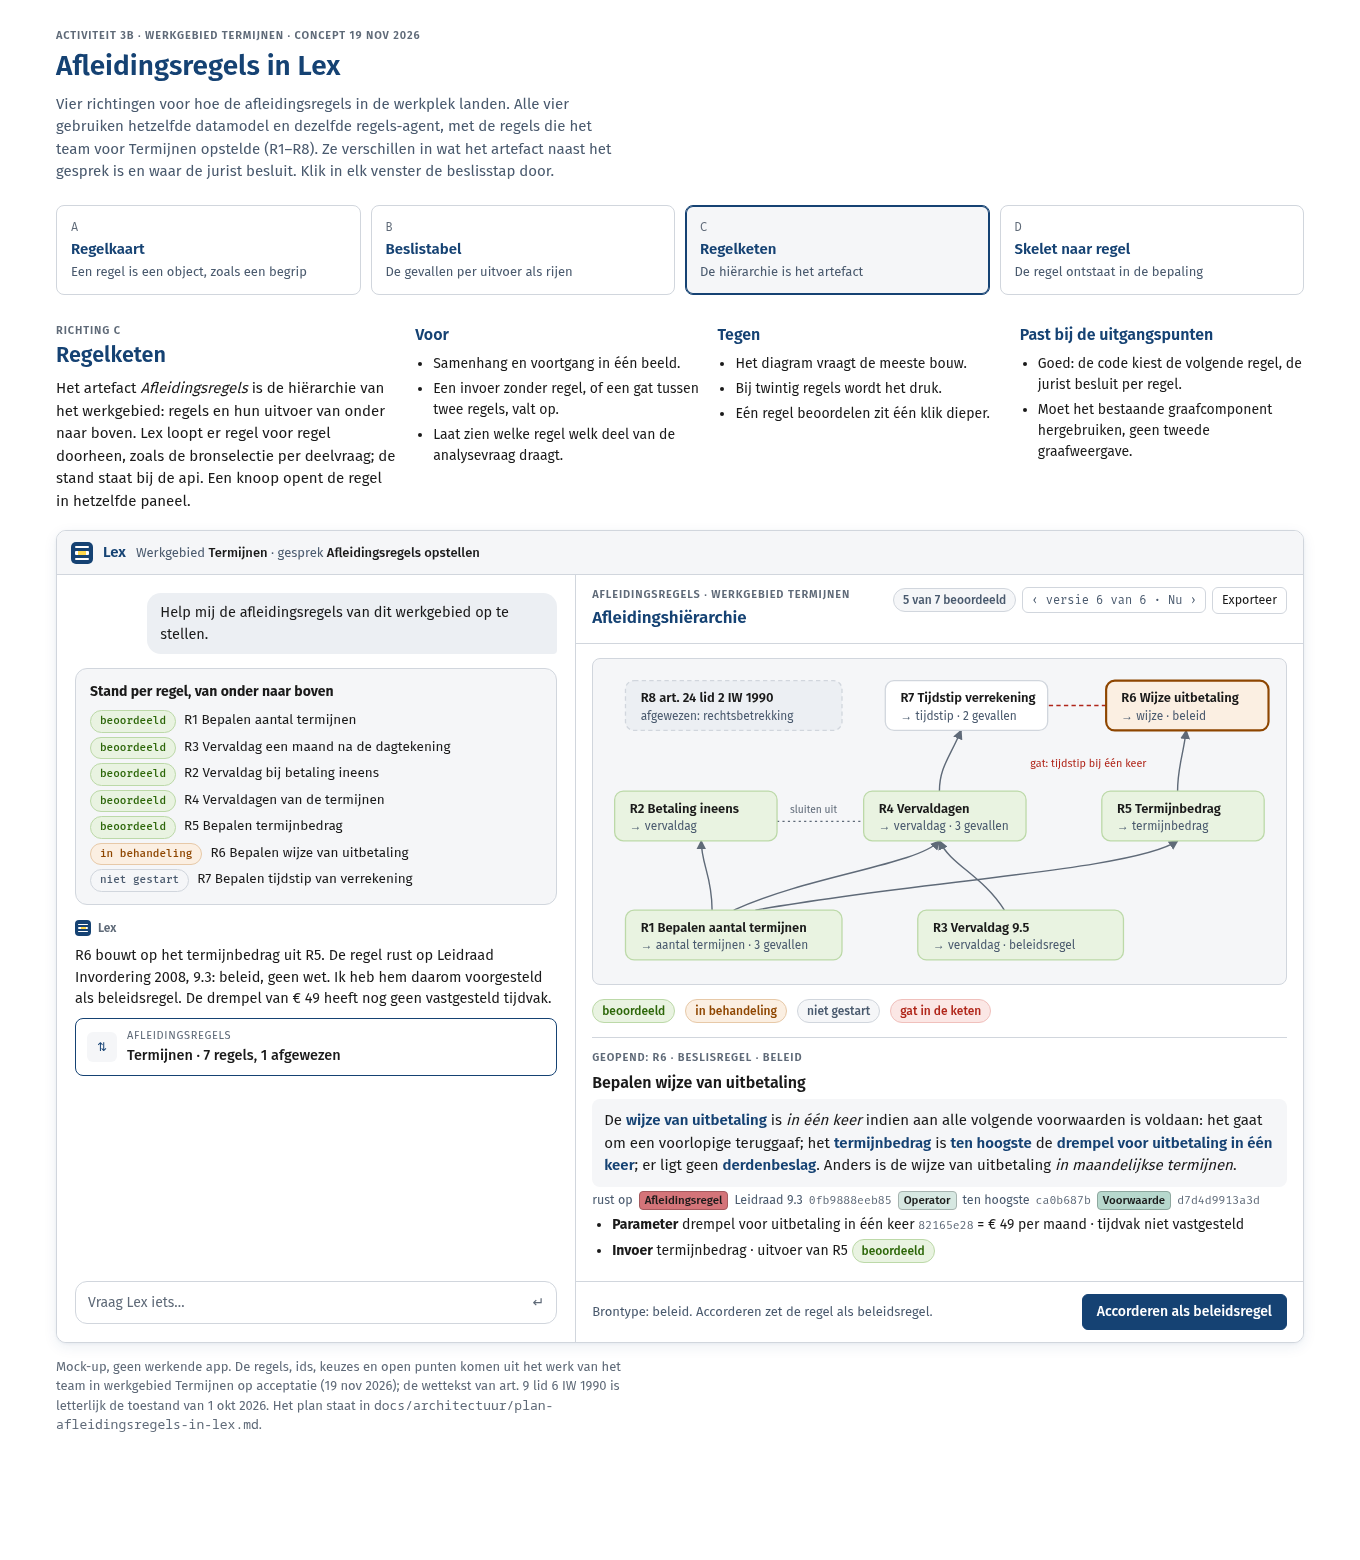
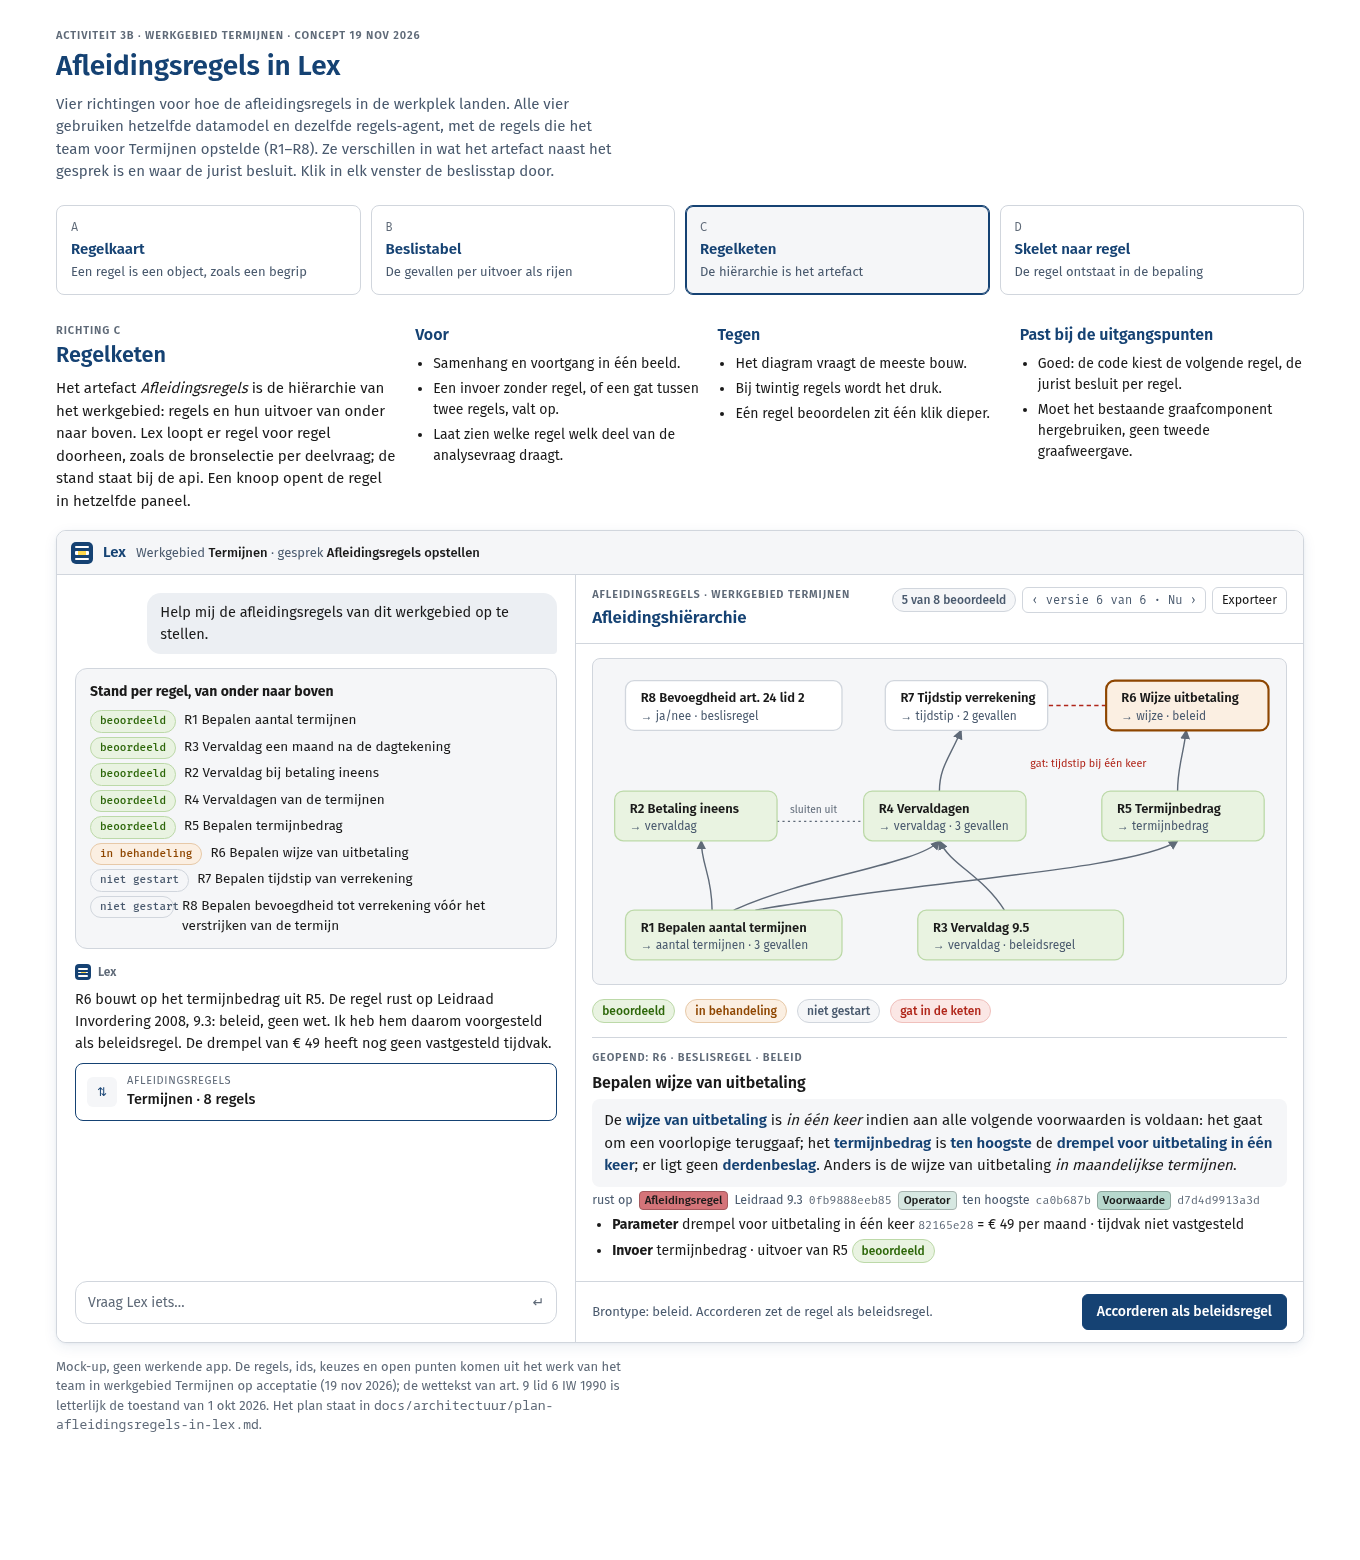
Plan afleidingsregels: grondslag, operatoren en R8 volgens de skill (#1766)
Een regel rust op de Afleidingsregel-markering of op de formulering van het
afgeleide begrip; een beslisregel over een recht op de Rechtsbetrekking.
Operatoren en R8 zijn door de methode beslist; R0 neemt de reference van
#1766 over. De mock-ups van richting A en C volgen.

Changed region(s): [[0.0309, 0.5538, 0.4015, 0.7077], [0.4632, 0.4308, 0.5868, 0.4615]]

diff --git a/docs/architectuur/media/afleidingsregels-richtingen.html b/docs/architectuur/media/afleidingsregels-richtingen.html
@@ -258,7 +258,7 @@ tr.nieuw td { background: color-mix(in srgb, var(--groen-bg) 60%, var(--paper));
               </div></div>
             <div class="veld"><span class="eyebrow">Invoer, op volgorde</span>
               <ol class="lijst"><li>bedrag van de belastingaanslag <span class="id">c25b97af</span> <span id="a-teken">(met teken)</span></li><li>aantal termijnen <span class="id">de1bae54</span> · uitvoer van R1 <i>Bepalen aantal termijnen</i></li></ol></div>
-            <div class="veld"><span class="eyebrow">Bewerking</span><p>gedeeld door <span class="id">uit de operatorcatalogus · geen gemarkeerde formulering</span></p></div>
+            <div class="veld"><span class="eyebrow">Bewerking</span><p><b>gedeeld door</b> <span class="id">operatorbegrip op de formulering "gelijke termijnen" · naam uit de namenlijst</span></p></div>
             <div class="veld"><span class="eyebrow">Gevallen</span>
               <ul class="lijst"><li><b>lid 5</b> · een positief bedrag <span class="jas var">Variabele</span> art. 13 lid 1 AWR <span class="id">dc43143ba8c4</span></li><li><b>lid 6</b> · een uit te betalen bedrag <span class="jas var">Variabele</span> <span class="id">6eec78b767f3</span></li><li><b>lid 7</b> · <span class="gat">skeletgat:</span> de tekst heeft geen formulering voor het bedrag</li></ul></div>
             <div class="open"><span class="s">Open punt · beleid (activiteit 5)</span>De afronding van het termijnbedrag en waar het restant landt.</div>
@@ -353,12 +353,13 @@ tr.nieuw td { background: color-mix(in srgb, var(--groen-bg) 60%, var(--paper));
               <li><span class="s pill ok">beoordeeld</span>R5 Bepalen termijnbedrag</li>
               <li id="c-st6"><span class="s pill concept">in behandeling</span>R6 Bepalen wijze van uitbetaling</li>
               <li id="c-st7"><span class="s pill neutraal">niet gestart</span>R7 Bepalen tijdstip van verrekening</li>
+              <li><span class="s pill neutraal">niet gestart</span>R8 Bepalen bevoegdheid tot verrekening vóór het verstrijken van de termijn</li>
             </ul>
           </div>
           <div class="lex">
             <div class="wie"><span class="merk" aria-hidden="true"><i></i><i class="m"></i><i></i></span>Lex</div>
             <p>R6 bouwt op het termijnbedrag uit R5. De regel rust op Leidraad Invordering 2008, 9.3: beleid, geen wet. Ik heb hem daarom voorgesteld als beleidsregel. De drempel van € 49 heeft nog geen vastgesteld tijdvak.</p>
-            <button class="chip actief" type="button"><span class="ic">⇅</span><span class="t"><span>Afleidingsregels</span><span>Termijnen · 7 regels, 1 afgewezen</span></span></button>
+            <button class="chip actief" type="button"><span class="ic">⇅</span><span class="t"><span>Afleidingsregels</span><span>Termijnen · 8 regels</span></span></button>
           </div>
           <div class="lex" id="c-na" hidden>
             <div class="wie"><span class="merk" aria-hidden="true"><i></i><i class="m"></i><i></i></span>Lex</div>
@@ -370,10 +371,10 @@ tr.nieuw td { background: color-mix(in srgb, var(--groen-bg) 60%, var(--paper));
         <div class="artefact">
           <div class="pkop">
             <div class="titel"><span class="eyebrow">Afleidingsregels · werkgebied Termijnen</span><h3>Afleidingshiërarchie</h3></div>
-            <div class="acties"><span class="pill neutraal" id="c-teller">5 van 7 beoordeeld</span><span class="versie">‹ versie 6 van 6 · Nu ›</span><button class="kopknop" type="button">Exporteer</button></div>
+            <div class="acties"><span class="pill neutraal" id="c-teller">5 van 8 beoordeeld</span><span class="versie">‹ versie 6 van 6 · Nu ›</span><button class="kopknop" type="button">Exporteer</button></div>
           </div>
           <div class="pinhoud">
-            <div class="keten" role="img" aria-label="Afleidingshiërarchie van Termijnen: R1 en R3 onderaan, daarop R2, R4 en R5, daarop R6 en R7.">
+            <div class="keten" role="img" aria-label="Afleidingshiërarchie van Termijnen: R1 en R3 onderaan, daarop R2, R4 en R5, daarop R6, R7 en R8.">
               <svg viewBox="0 0 640 300" xmlns="http://www.w3.org/2000/svg">
                 <defs><marker id="pp" viewBox="0 0 8 8" refX="7" refY="4" markerWidth="7" markerHeight="7" orient="auto"><path d="M0,0 L8,4 L0,8 z" class="pijlpunt"/></marker></defs>
                 <!-- pijlen: van invoer (onder) naar regel (boven) -->
@@ -396,7 +397,7 @@ tr.nieuw td { background: color-mix(in srgb, var(--groen-bg) 60%, var(--paper));
                 <g class="kn ok"><rect x="470" y="122" width="150" height="46" rx="8"/><text class="t1" x="484" y="142">R5 Termijnbedrag</text><text class="t2" x="484" y="158">→ termijnbedrag</text></g>
                 <g class="kn" id="c-k7"><rect x="270" y="20" width="150" height="46" rx="8"/><text class="t1" x="284" y="40">R7 Tijdstip verrekening</text><text class="t2" x="284" y="56">→ tijdstip · 2 gevallen</text></g>
                 <g class="kn bezig" id="c-k6"><rect x="474" y="20" width="150" height="46" rx="8"/><text class="t1" x="488" y="40">R6 Wijze uitbetaling</text><text class="t2" x="488" y="56">→ wijze · beleid</text></g>
-                <g class="kn af"><rect x="30" y="20" width="200" height="46" rx="8"/><text class="t1" x="44" y="40">R8 art. 24 lid 2 IW 1990</text><text class="t2" x="44" y="56">afgewezen: rechtsbetrekking</text></g>
+                <g class="kn"><rect x="30" y="20" width="200" height="46" rx="8"/><text class="t1" x="44" y="40">R8 Bevoegdheid art. 24 lid 2</text><text class="t2" x="44" y="56">→ ja/nee · beslisregel</text></g>
               </svg>
             </div>
             <div class="legenda"><span class="pill ok">beoordeeld</span><span class="pill concept">in behandeling</span><span class="pill neutraal">niet gestart</span><span class="pill rood">gat in de keten</span></div>
@@ -550,7 +551,7 @@ tr.nieuw td { background: color-mix(in srgb, var(--groen-bg) 60%, var(--paper));
     $("c-k7").setAttribute("class", "kn bezig");
     $("c-st6").innerHTML = '<span class="s pill ok">beoordeeld</span>R6 Bepalen wijze van uitbetaling · beleidsregel';
     $("c-st7").innerHTML = '<span class="s pill concept">in behandeling</span>R7 Bepalen tijdstip van verrekening';
-    $("c-teller").textContent = "6 van 7 beoordeeld";
+    $("c-teller").textContent = "6 van 8 beoordeeld";
     $("c-voet").textContent = "R6 geaccordeerd als beleidsregel. De code kiest R7 als volgende.";
     $("c-accorderen").disabled = true; $("c-accorderen").textContent = "Geaccordeerd";
     $("c-na").hidden = false;

diff --git a/docs/architectuur/plan-afleidingsregels-in-lex.md b/docs/architectuur/plan-afleidingsregels-in-lex.md
@@ -76,8 +76,10 @@ Een regel hoort bij één werkgebied, net als een begrip.
   afgeleid uit de dragende markeringen), `aangemaakt_door` en tijden.
 - **De naam is een begrip.** Het regelbegrip ("bepalen van het termijnbedrag") is een gewoon begrip in het
   begrippenkader, op de aanduidende passage van de afleidingsregel. Daarmee geldt *een begrip rust altijd op een
-  annotatie* vanzelf, en een regel zonder gemarkeerde afleidingsregel kan niet bestaan. Zo deed het team het ook
-  (R1 tot en met R7 hebben elk een regelbegrip).
+  annotatie* vanzelf. De grondslag van een regel (skill `references/afleidingsregels.md`, PR #1766): de
+  Afleidingsregel-markering als die er is, en anders de formulering van het afgeleide begrip. Een beslisregel over een
+  recht of bevoegdheid rust op de formulering van dat recht, een Rechtsbetrekking, en hoeft niet als Afleidingsregel
+  gemarkeerd te zijn. Een regel zonder enige grondslag kan niet bestaan (#1760).
 - **De soort**: `rekenregel`, `beslisregel` of `specialisatie` (de methode, plan-afleidingsregels §2.3).
 - **De uitvoer**: precies één begrip. Twee regels met dezelfde uitvoer zijn alleen toegestaan als hun gevallen elkaar
   uitsluiten (R2 en R4, via R1); de api meldt het anders als signaal, niet als fout.
@@ -350,13 +352,14 @@ de annotatie) en verwijst naar de regel. De keuze is aan de gebruiker.
    geval?
 3. **De poort bij accorderen**: beoordeelde begrippen voor uitvoer en invoer verplicht, het skelet als signaal (voorstel);
    of ook een volledig beoordeeld skelet?
-4. **Operatoren**: een generieke catalogus in code zonder begrip (voorstel), of generieke operatorbegrippen in het
-   generieke kader (ADR-006), ook zonder gemarkeerde formulering?
+4. **Operatoren**: *beslist door de methode* (PR #1766). Een operatorbegrip ontstaat bij de eerste gemarkeerde
+   formulering en is daarna generiek; de lijst in de skill is alleen een voorstel voor de naam. "Zes weken na" is een
+   Tijdsaanduiding, geen operator.
 5. **Interpretatiekeuzes als eigen object op werkgebiedniveau** (voorstel), of als open punt per regel?
 6. **Beleidsregels** (R3, R6): in dezelfde lijst met het brontype zichtbaar (voorstel), of apart?
-7. **R8** (art. 24 lid 2): volgens de methode een beslisregel met uitvoer *bevoegdheid tot verrekening vóór het
-   verstrijken van de betalingstermijn* (voorstel, M-3b-0), of afgewezen zoals het team besloot? Een afgewezen regel
-   blijft in elk geval bewaard met de reden.
+7. **R8** (art. 24 lid 2): *beslist door de methode* (PR #1766, M-3b-0). Het is een beslisregel met uitvoer
+   *bevoegdheid tot verrekening vóór het verstrijken van de betalingstermijn*, en hij rust op de Rechtsbetrekking. Een
+   regel die later toch wordt afgewezen, blijft bewaard met de reden.
 8. **De soort van een begrip** (D5, bedrag, aantal, datum, ja/nee): nu meenemen voor de eenduidigheidstoets, of later?
 9. **De import van R1–R8** uit het logboek van het team als eerste bestand in Termijnen: ja of nee?
 10. **Scope** (M1 uit het onderzoek): de skill, `CLAUDE.md` en PLAN zeggen nu "het begin van activiteit 3"; met dit plan
@@ -530,7 +533,10 @@ gebouwd wordt. Werkwijze zoals altijd:
 ### 13.1 Wat er eerst moet liggen
 
 Uit `plan-lessen-e2e-termijnen.md`, en niet opnieuw in dit plan:
-- **#1760** (geen begrip zonder grondslag, rol `afgeleid` voor een tussenresultaat) is gemerged;
+- **#1760** (geen begrip zonder grondslag; een tussenresultaat krijgt een begrip dat op de afleidingsregel rust, met
+  de koppelrol `afgeleid`): besloten door de gebruiker;
+- **#1766** (lessenbundel 1): de skill volgt de methode bij 3b, met `references/afleidingsregels.md` en de
+  operatorbegrippen. R0 neemt die reference over en schrijft hem niet opnieuw;
 - **lessenbundel 2**: de leesvorm `weergave?vorm=skelet` (L-3b-2), met het skelet uit `werkgebied_rapport.regelskelet_regels`. De
   regels-agent en het paneel lezen het skelet daaruit;
 - **lessenbundel 3**: de keten legt het skelet goed (L-2-1, L-2-2: geen rechtsobject als invoer, invoer op volgorde,
@@ -545,17 +551,11 @@ Bundel R0 hieronder gaat samen met lessenbundel 1 in één docs-PR.
 **R0. Besluit en methode** (docs, skill; geen code)
 - ADR-017 *Afleidingsregels*: het datamodel van §3 met de bijstellingen van 19 nov 2026, de regelkaart in de keten,
   de grens met RegelSpraak, en de open punten van M-3b-2 met het veld `methode`.
-- De skill krijgt `references/afleidingsregels.md`, buiten de methodemarkers:
-  - de taalpatronen;
-  - één regel per uitvoer, met gevallen;
-  - de grondslag van een regel (M-3b-0);
-  - tussenresultaten en operatorbegrippen;
-  - interpretatie en voorbeelden.
-
-  Daarnaast `operatoren.json` als namenlijst, met generator en drift-test.
-- Scope: *Grenzen* in `SKILL.md`, de projectroot-`CLAUDE.md` en `docs/PLAN.md` worden "activiteit 1 tot en met 3b"; PLAN
-  krijgt een spoor voor 3b.
-- Vraagt de besluiten van §10 punt 2 tot en met 9; de voorstellen staan erbij.
+- De skill (`references/afleidingsregels.md`, werkstroom F en de grens "activiteit 1 tot en met 3b") ligt er met #1766.
+  R0 voegt alleen toe wat de bouw nodig heeft: de taalpatronen als vaste lijst voor `regeltekst.py`, en de namenlijst
+  van operatoren als bestand met generator en drift-test, voor zover #1766 die niet al levert.
+- PLAN heeft spoor V.
+- Vraagt de besluiten van §10 punt 2, 3, 5, 6, 8 en 9; punt 4 en 7 zijn door de methode beslist.
 - Klaar als: de ADR is aangenomen en `genereer_jas_klassen.py --check` groen is.
 
 **R1. De regel als object** (api; lessen L-3b-1)
